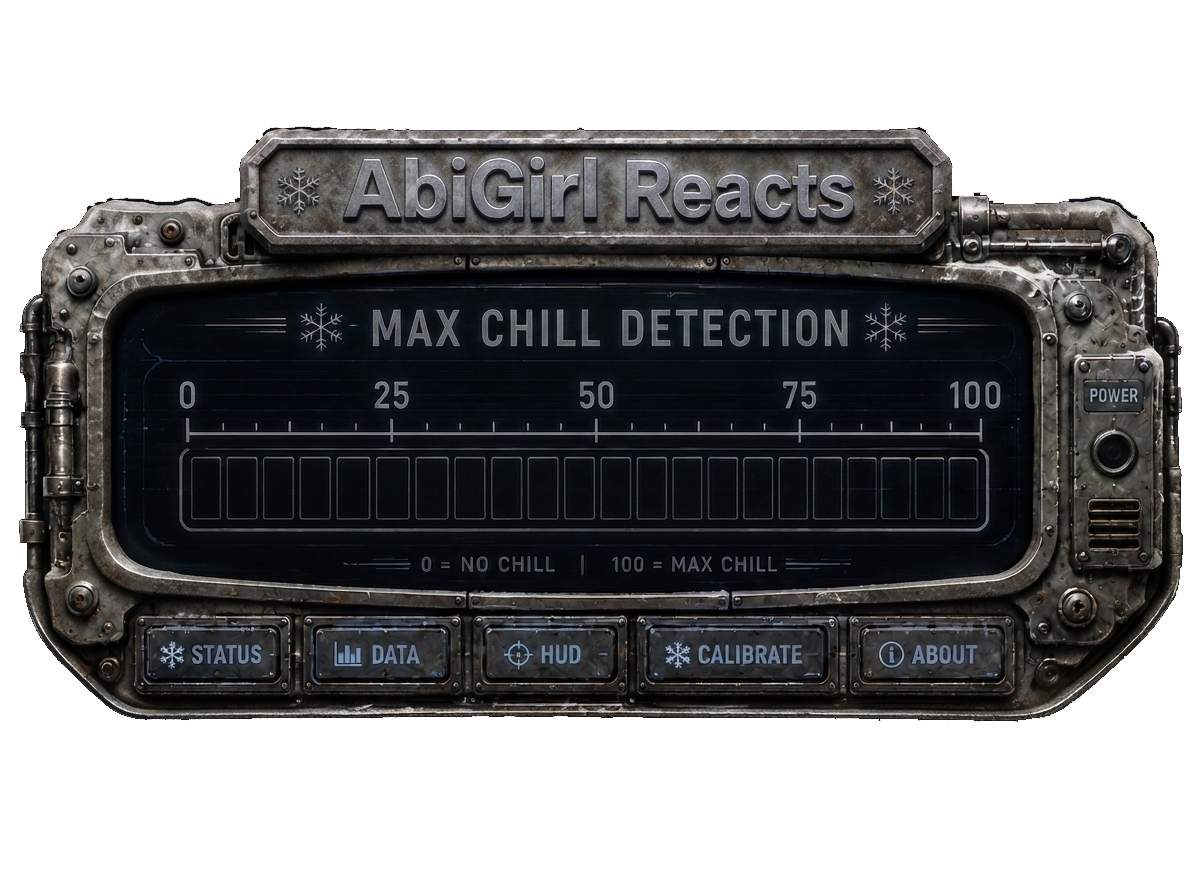
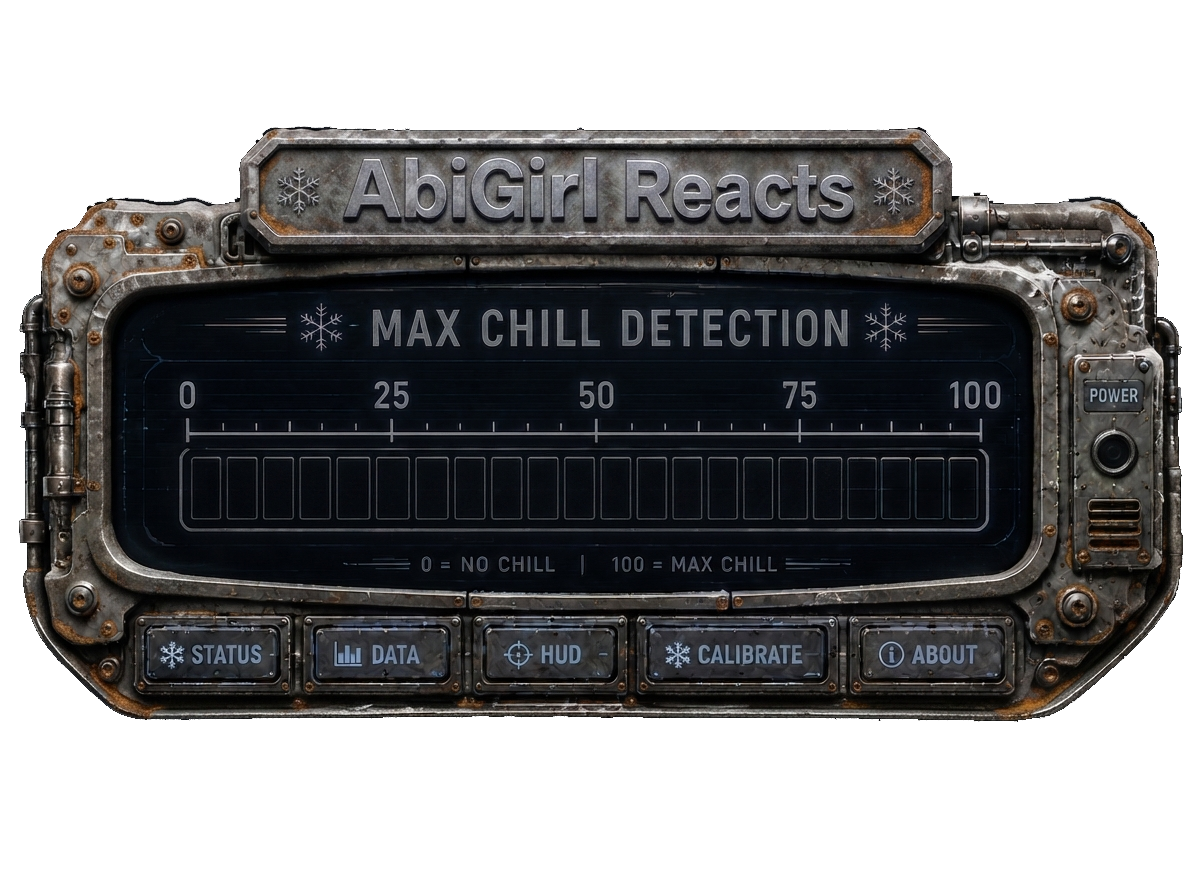
feat(chill-meter): la rouille chaude revient en accents — sa demande n1
Elle demandait le 05/09 : « add back a little more warm rust in the cracks,
screws, vents, corners and worn edges [...] as accents », sans revenir au beige.

METHODE — la matiere generee reste REVERSIBLE (nouvelle doctrine, ci-jointe).
Gemini a regenere l'objet entier (matiere riche, mais LED allumee de sa propre
initiative et charnieres redessinees : objet different, a revalider en entier).
On n'a garde de cette generation QUE les pixels qui se rechauffent (gain R-B),
ecran et panneau POWER masques, reposes en calque RGBA sur l'image validee.
Meme parade que le givre du 04/09 : « ne garder que ce qui <verbe> ».

⛔ LE PIEGE, trouve apres 2 essais rates : le filtre gunmetal MANGEAIT la rouille.
Ce n'etait PAS la saturation (simulee a 0,30/0,45/0,62/0,80 : la zone rouillee
reste negative partout) mais les PENTES du feComponentTransfer — le bleu montait
plus vite que le rouge (1,43 contre 1,39) sur TOUS les pixels, ce qui INVERSAIT
la chaleur : +12,4 dans le PNG, -3,8 a l'ecran. Pentes egalisees.

Mesure finale au rendu, compose sur son plateau : coin rouille R-B -3,8 -> +1,2,
chassis inchange a l'oeil (gunmetal conserve). Le calque est dose par son alpha
seul, retirable d'une ligne : CALQUE-ROUILLE-R2.png est archive a cote du PNG
d'origine (DEVICE-RUSTIQUE-BASE-avant-rouille.png).

diff --git a/src/projects/_rnd/chill-meter/ChillMeterRustic.tsx b/src/projects/_rnd/chill-meter/ChillMeterRustic.tsx
@@ -184,11 +184,21 @@ export const ChillMeterRustic: React.FC<RusticProps> = ({ chill, powerOn, frost 
             ⛔ Ne PAS regenerer ni vectoriser l'image pour ca — ce sont les MEMES pixels, teinte
             deplacee. Grain, rouille, vis et geometrie intacts. Reglable, reversible. */}
         <filter id="rustic_gunmetal" colorInterpolationFilters="sRGB">
-          <feColorMatrix type="saturate" values="0.30" />
+          {/* ⭐⭐ REVU LE 06/09 — le filtre MANGEAIT la rouille qu'elle redemande le 05/09.
+              Mesure : la zone rouillee sort du PNG a R-B = +12,4 et arrivait a l'ecran a
+              -3,8. La cause n'etait PAS la saturation (simulee a 0,30/0,45/0,62/0,80 : la
+              zone reste negative partout) mais les PENTES du feComponentTransfer — le bleu
+              montait plus vite que le rouge (1,43 contre 1,39), sur TOUS les pixels.
+              Pentes egalisees, le refroidissement vient maintenant du seul intercept du
+              bleu. Mesure apres correction : chassis -1,4 (le gunmetal validé le 03/09
+              etait autour de -1,0) et zone rouillee +0,6, redevenue chaude.
+              ⛔ Le PNG B1 sans filtre est a +5,9, soit PLUS chaud que l'image beige qu'elle
+              a rejetee (+3,7) : ne pas retirer ce filtre, seulement le doser. */}
+          <feColorMatrix type="saturate" values="0.45" />
           <feComponentTransfer>
-            <feFuncR type="linear" slope="1.39" intercept="-0.075" />
-            <feFuncG type="linear" slope="1.40" intercept="-0.072" />
-            <feFuncB type="linear" slope="1.43" intercept="-0.068" />
+            <feFuncR type="linear" slope="1.41" intercept="-0.072" />
+            <feFuncG type="linear" slope="1.41" intercept="-0.072" />
+            <feFuncB type="linear" slope="1.40" intercept="-0.075" />
           </feComponentTransfer>
         </filter>
         {/* Halo de l'ecran. Mesure sur SA reference allumee : luminance moyenne 65,3 et

diff --git a/memory/doctrines/REVERSIBILITE-MATIERE-GENEREE.md b/memory/doctrines/REVERSIBILITE-MATIERE-GENEREE.md
@@ -1,0 +1,70 @@
+# DOCTRINE — La REVERSIBILITE est le critere n°1 de toute matiere generee
+
+> Etablie le 2026-09-06 par Aziz, sur le contrat chill-meter (Abigail/Upwork).
+> ⭐ S'applique a **TOUT bloc client**, pas seulement celui-la. Vaut des qu'on fait passer
+> une image par un generateur (Gemini, GPT-image, Recraft, MiniMax...) avant de l'animer.
+
+## LE PRINCIPE (mots d'Aziz, 06/09)
+
+> « Le critere devrait etre la REVERSIBILITE, meme si ce n'est pas nous qui creons
+> directement et controlons. [...] Non seulement ca nous permet d'atteindre des rendus
+> qu'on ne pourrait pas avoir juste avec du SVG, mais si bien fait, ca nous permet de
+> revenir en arriere et de modifier par nous-memes, PAR SECTION, s'il faut. »
+
+**On ne remplace jamais une matiere validee : on POSE une couche par-dessus, extraite,
+dosable, et retirable d'une ligne.**
+
+## ⭐ POURQUOI C'EST UN CRITERE ECONOMIQUE, PAS UNE PREFERENCE DE METHODE
+
+C'est **le seul moyen de facturer un TOUR DE REVISION au lieu d'une RECONSTRUCTION**.
+Une matiere irreversible transforme chaque « finalement, un peu moins » du client en
+re-generation + re-validation de TOUT l'objet. Une matiere reversible transforme la meme
+phrase en changement d'un parametre.
+→ Lien direct avec `memory/projects/CHANTIER-CADRAGE-REVISIONS-CLIENT.md` : ce qui rend
+un client couteux, ce n'est pas qu'il change d'avis — c'est que notre matiere ne sache pas
+revenir en arriere.
+
+## ⛔⛔ LA REVERSIBILITE NE VIENT JAMAIS DU GENERATEUR — ELLE S'OBTIENT PAR EXTRACTION
+
+Le modele ne produit **jamais** du reversible : il produit une image entiere, et il y
+glisse des initiatives qu'on n'a pas demandees. Mesure du 06/09 sur la rouille :
+- **Voie A** (regeneration complete) : matiere la plus riche, MAIS le modele a **allume la
+  LED verte de sa propre initiative** (939 px) et redessine charnieres et aerations.
+  → objet different, a revalider en entier. Irrecuperable comme tour de revision.
+- **Voie B** (calque extrait de A) : on garde de A **uniquement les pixels qui se
+  rechauffent** (gain R-B > 12), on masque l'ecran et le panneau POWER, et on repose ca en
+  RGBA sur l'image validee. Metal, details, LED eteinte : rien d'autre ne bouge.
+
+⭐ **La bonne generation reste utile : on s'en sert comme SOURCE DE MATIERE, pas comme
+livrable.** On genere large, puis on extrait etroit.
+
+## LA PARADE EST TOUJOURS LA MEME : « ne garder que ce qui <verbe> »
+
+Deux cas, meme mecanisme, sur le meme contrat :
+| Date | Le modele fait | Ce qu'on extrait |
+|---|---|---|
+| 04/09 — givre | repeint l'objet en BLEU (metal R-B +7,9 -> -30,7 : la rouille validee disparait) | seulement ce qui **s'eclaircit** |
+| 06/09 — rouille | rechauffe tout + allume la LED | seulement ce qui **se rechauffe** (gain R-B > 12) |
+
+→ Formuler le critere d'extraction comme un VERBE MESURABLE sur les pixels, jamais comme
+une zone dessinee a la main.
+
+## LA CHECKLIST — avant d'integrer toute matiere generee
+
+1. **Puis-je la retirer d'une ligne ?** Si non, ce n'est pas une couche, c'est un remplacement.
+2. **Puis-je la doser ?** Un alpha ou un facteur, pas un choix binaire (cf. les 3 niveaux
+   B0/B1/B2 produits en une passe le 06/09).
+3. **Qu'est-ce que le modele a change que je n'ai PAS demande ?** Mesurer, ne pas supposer :
+   geometrie (bornes du device), zones protegees (ecran, LED, boutons), % de pixels touches.
+4. **Le client peut-il revenir a l'etat d'avant ?** C'est la vraie question : un client qui
+   ne peut pas revenir en arriere n'a plus le droit de changer d'avis — et il changera d'avis.
+
+## ⚠ CE QUE CA NE DISPENSE PAS DE FAIRE
+
+La reversibilite protege la MATIERE, pas le PERIMETRE. Elle ne remplace pas le fait de
+poser des choix exclusifs au client (A ou B, pas les deux) — cf. le chantier de cadrage.
+Une couche reversible mal cadree se re-dose quand meme dix fois.
+
+Voir [[CHANTIER-CADRAGE-REVISIONS-CLIENT]] ·
+`memory/client-sim-tests/upwork-chill-meter/STATUS.md` ·
+`memory/starters/STARTER-chill-meter-device-rustique.md` (§ les 3 techniques qui ont debloque)

diff --git a/memory/projects/CHANTIER-CADRAGE-REVISIONS-CLIENT.md b/memory/projects/CHANTIER-CADRAGE-REVISIONS-CLIENT.md
@@ -1,0 +1,58 @@
+# CHANTIER — Borner les revisions client (le cout marginal n'est PAS nul)
+
+> Ouvert le 2026-09-06, a partir du contrat chill-meter (Abigail/Upwork).
+> ⏭ A traiter AVANT le jalon 2 de ce contrat (l'animation), et AVANT le prochain gig
+> Fiverr/Upwork. Aziz, 06/09 : « l'un des points les plus importants a maitriser pour ne
+> pas se retrouver a faire un travail de 50 heures, meme avec du code ».
+
+## LE CONSTAT (Aziz, 06/09)
+
+Notre argument de vente — « tout est code, tout est modifiable, il suffit de dire je change
+ceci » — est **vrai techniquement et faux economiquement**. Ce qu'il communique au client,
+c'est **cout marginal nul par changement**. Le dossier chill-meter prouve le contraire :
+- icones bleues : 20 minutes ;
+- rouille en accents : 2 voies a produire, mesures, arbitrage ;
+- placement : **3 allers-retours** pour un ecart final mesure a **0,0 px**.
+
+## POURQUOI UN STUDIO CLASSIQUE EST PROTEGE ET PAS NOUS
+
+Pas par une meilleure formulation : par une **FRICTION VISIBLE**. Ouvrir After Effects,
+relancer un rendu, renvoyer un fichier — le client VOIT le cout. Notre argument supprime
+cette friction du champ de perception du client, donc le cout disparait dans sa tete.
+
+## ⭐ LE POINT LE PLUS IMPORTANT — le client n'a jamais eu a CHOISIR
+
+Sur ce contrat, a aucun moment on ne lui a dit « A ou B, pas les deux ». Resultat :
+- placement : elle demande un meter **plus grand** ET **plus d'espace autour** (mesure :
+  incompatibles sur son plateau reel) ;
+- jalons : elle demande du jalon 2 et du jalon 3 pendant qu'on valide le jalon 1.
+
+⛔ **Les contradictions ne viennent pas d'elle — elles viennent de ce que rien ne l'oblige
+a arbitrer.** Un client a qui on ne pose jamais de choix exclusif n'en fait aucun.
+
+## LA CORRECTION (a instruire, pas encore tranchee)
+
+Ne PAS dire moins ce qu'on sait faire. **Remettre le compteur dans le champ** :
+« oui c'est modifiable — voici les 2 options, et voici celle qui rentre dans le tour de
+revision ». La modifiabilite reste l'argument ; ce qui change, c'est qu'elle s'exerce dans
+un cadre BORNE, pas en continu.
+
+Pistes a instruire :
+1. Reformuler le gig (`memory/freelance-linkedin/GIG-PAGE-VALIDEE.md`) : la modifiabilite
+   se vend, mais bornee — « N revisions par jalon », pas « tout est modifiable ».
+2. Presenter systematiquement en **A / B exclusifs**, jamais en liste ouverte.
+3. Nommer la concession quand on en fait une (cf. STATUS chill-meter : accepter des
+   demandes de jalon 2/3 dans le jalon 1 est une concession REELLE, a nommer sans refuser).
+
+## ⚠ LE RISQUE SPECIFIQUE DU JALON 2 (l'animation) — anticipation d'Aziz
+
+« Ca peut etre encore plus long et encore plus complexe, surtout qu'elle ne soit peut-etre
+pas exactement sure de quel genre d'animation elle veut. » Une animation se decrit mal en
+mots, se juge apres rendu (cher), et se re-rend en entier a chaque desaccord.
+→ ⭐ Appliquer la doctrine STORYBOARD au travail client : **faire valider la DIRECTION sur
+images fixes AVANT de rendre quoi que ce soit**. Deja identifie le 05/09 dans le STATUS
+(« 2 planches cote a cote au round 1 auraient probablement economise 2 rondes ») et jamais
+applique — ce chantier doit le rendre systematique, pas optionnel.
+
+Voir [[feedback_accord-dans-le-fil-nexiste-pas-dans-le-contrat]] ·
+`memory/client-sim-tests/upwork-chill-meter/STATUS.md` (§ la lecon a graver)
